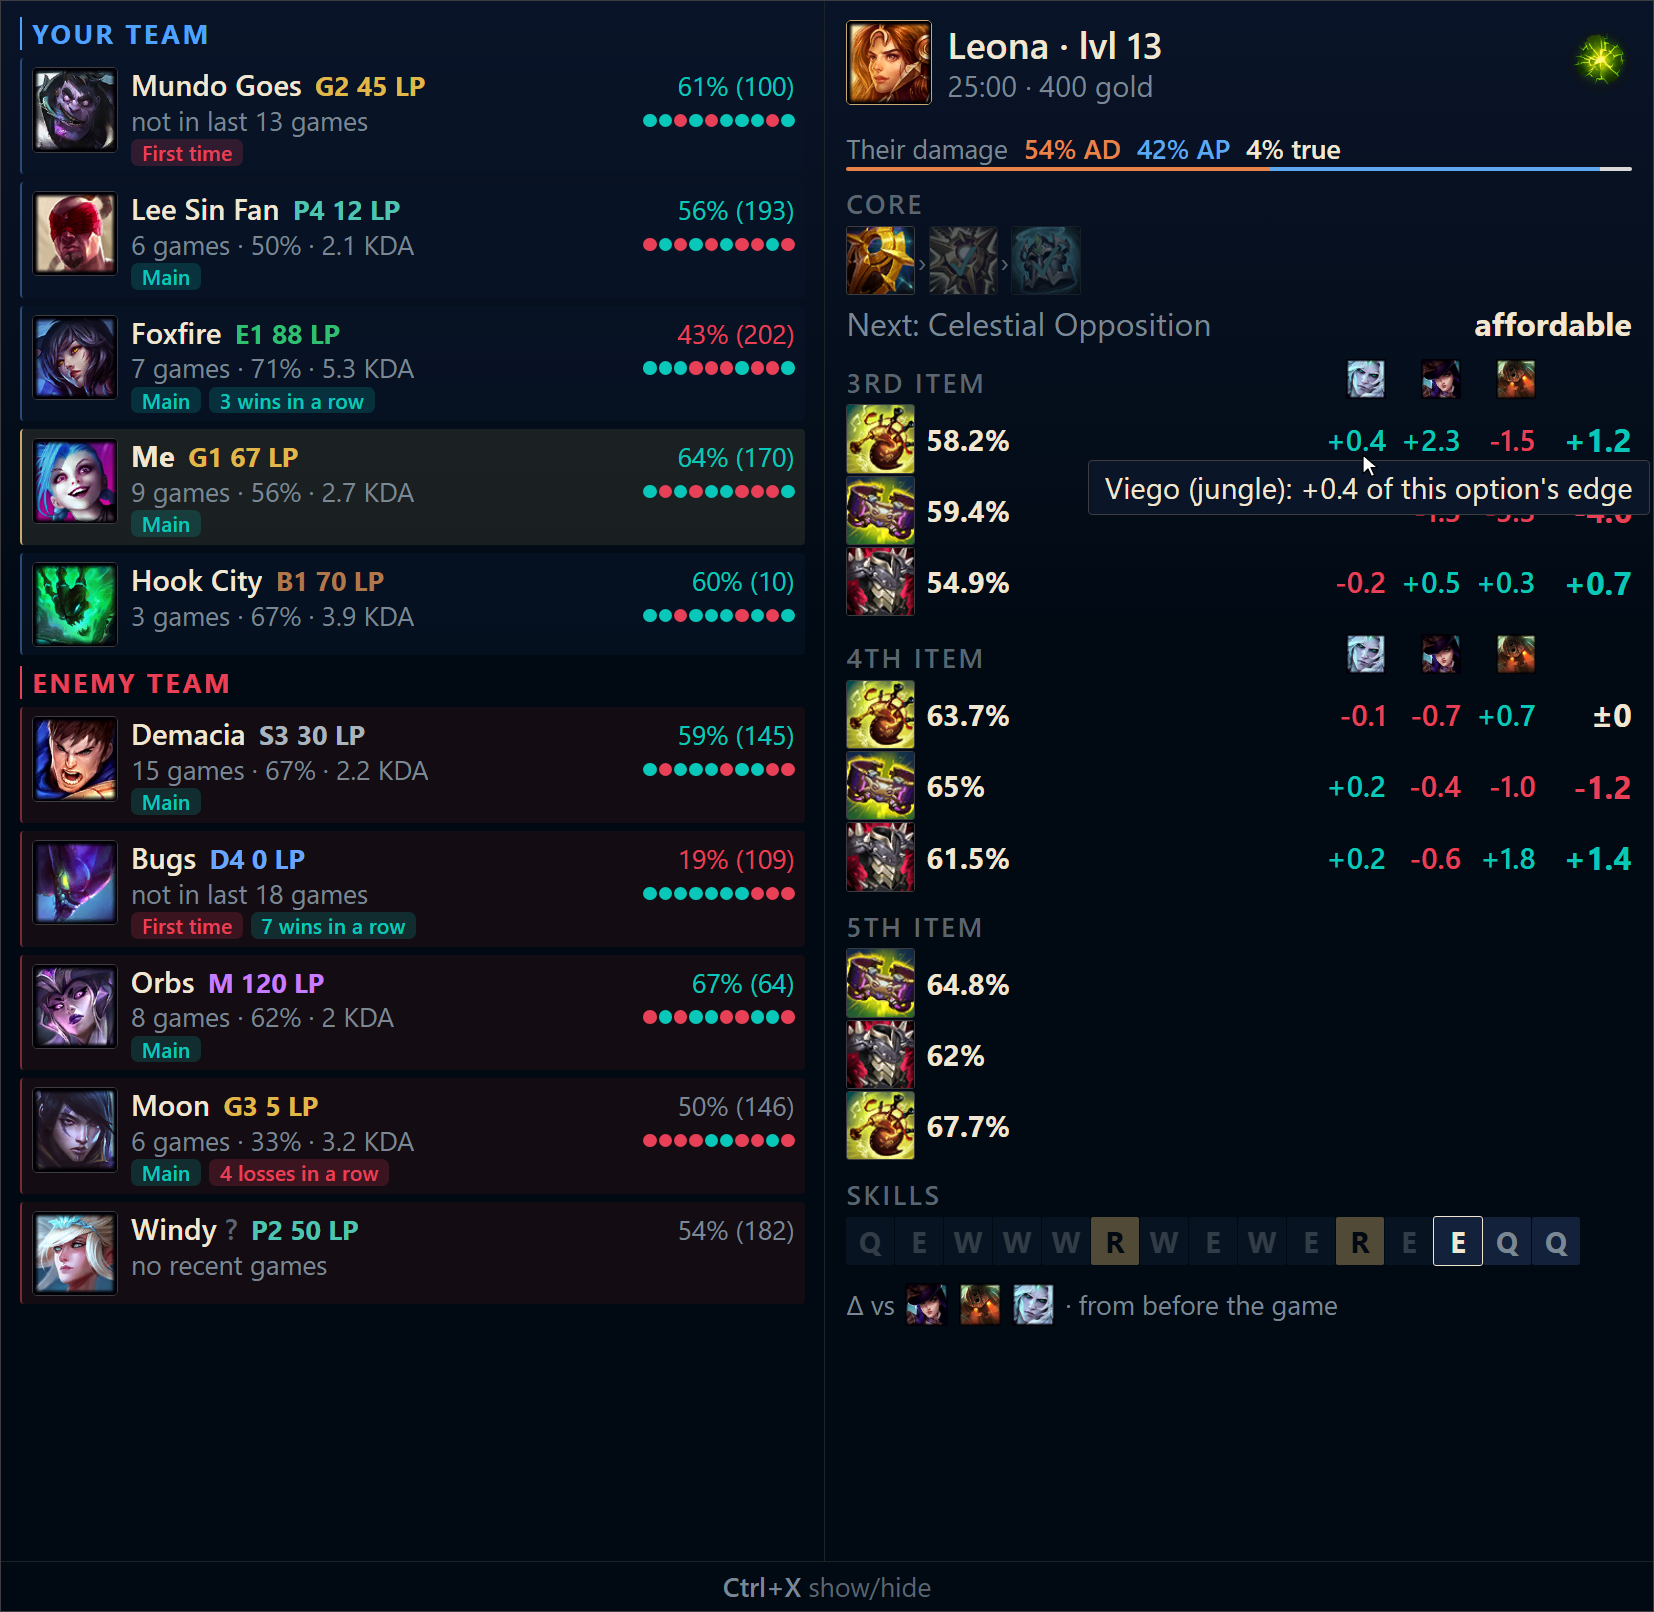
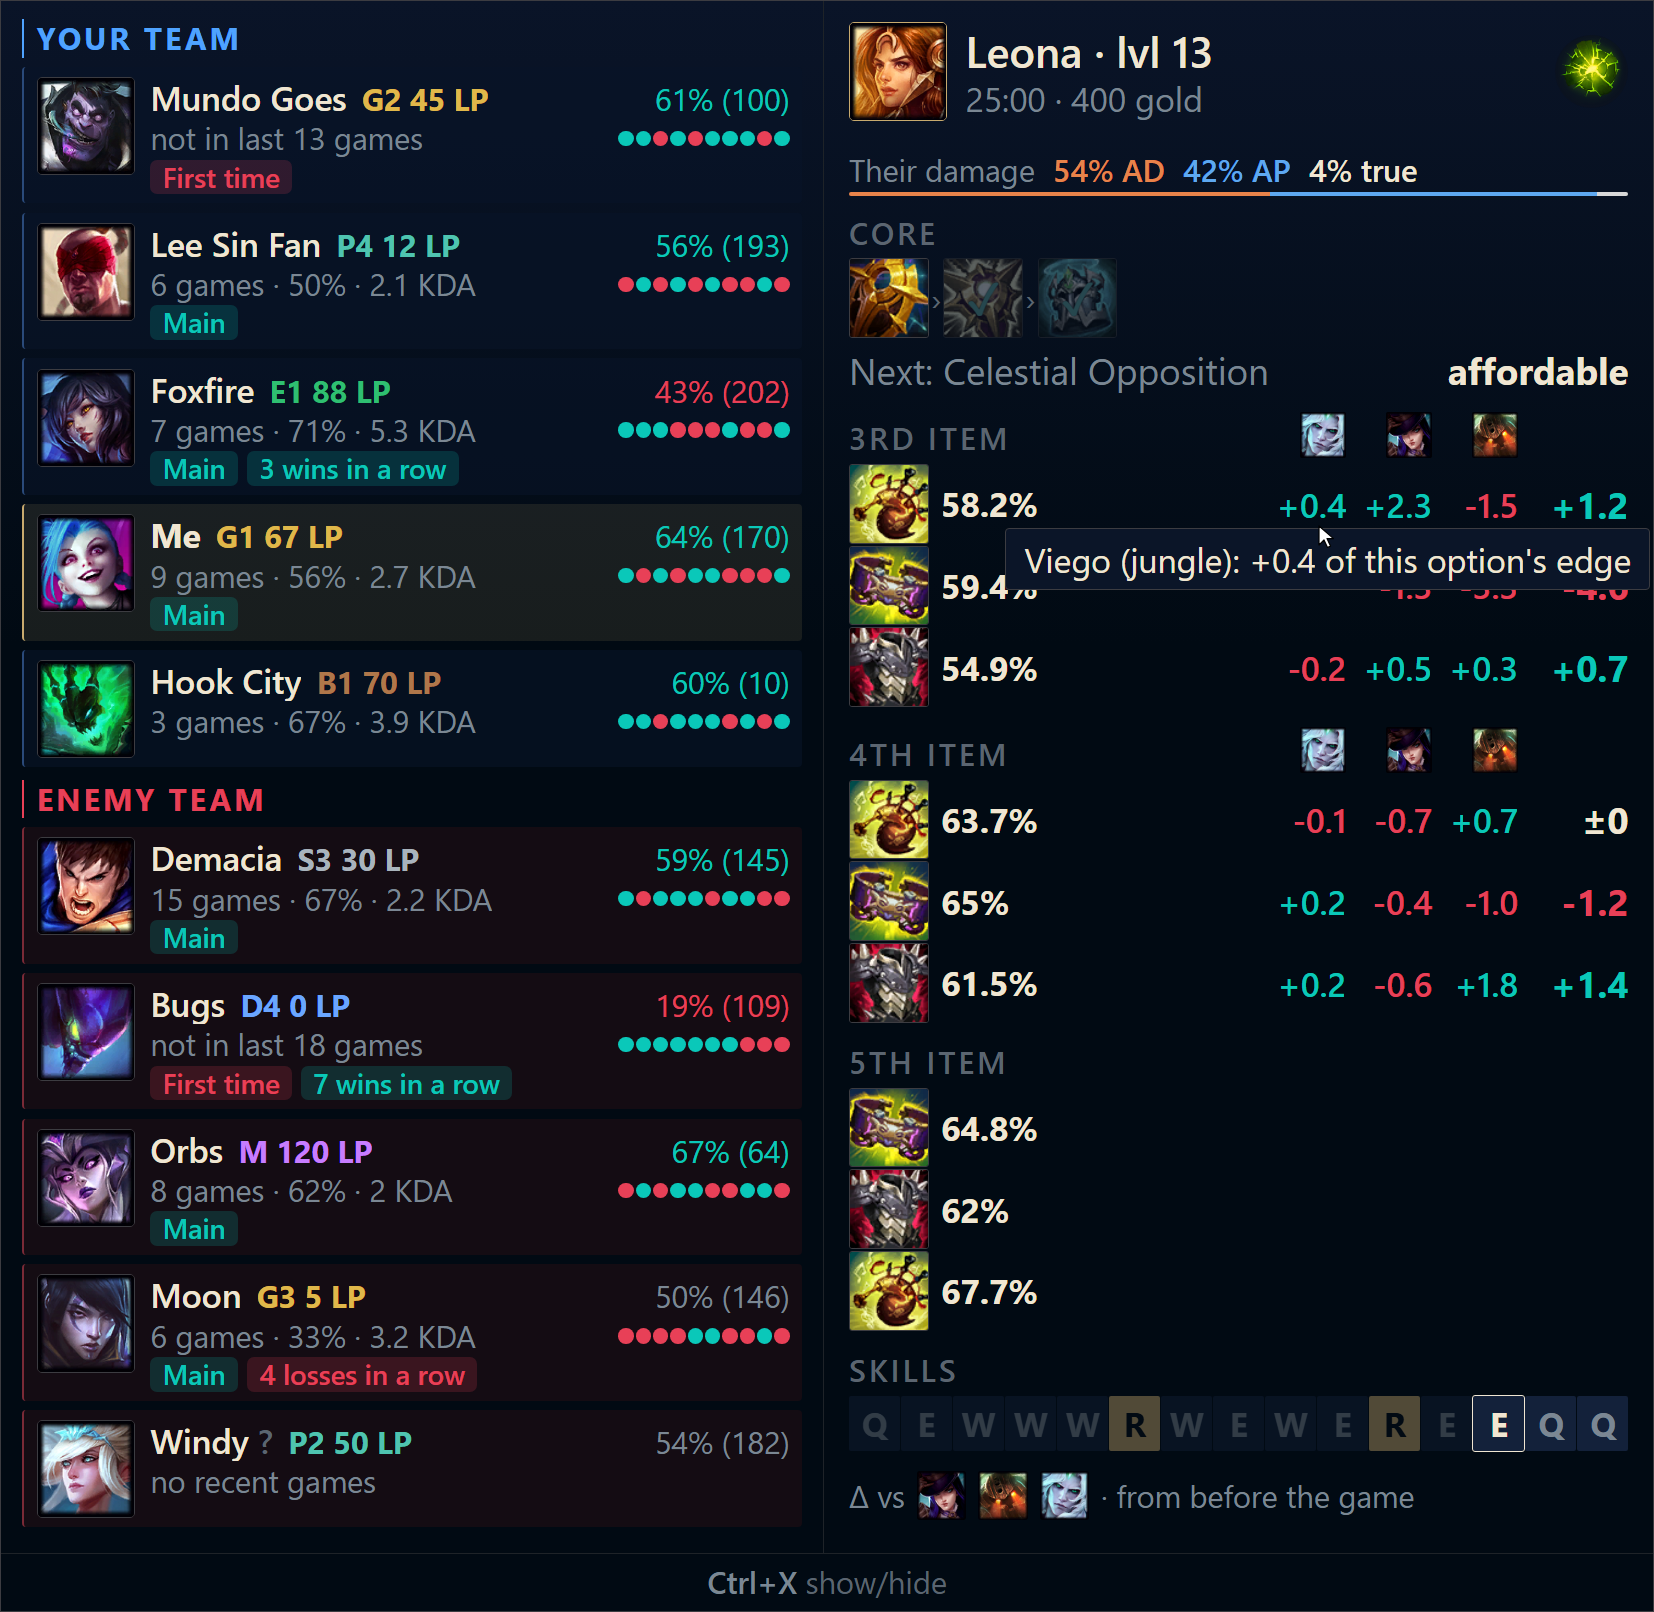
fix ui

diff --git a/panel/game.css b/panel/game.css
@@ -1,4 +1,7 @@
 /* In-game window (game.html): players column left, build column right, each scrolling on its own */
+/* Over the game the page reads from further away than the client panel: everything 15% larger in the
+   same window (both columns have the room), with no text under ~9px at 1080p */
+html{font-size:calc(16px * var(--s) * 1.15)}
 body[data-mode=ingame]{--bgalpha:1;font-size:.8125rem}
 body[data-mode=ingame] .skillord{flex-wrap:nowrap}
 body[data-mode=ingame] .skillord span{flex:0 1 1.125rem;min-width:0;width:auto;height:1.125rem;font-size:.6875rem}
@@ -39,7 +42,7 @@ body[data-mode=ingame] .skillord span{flex:0 1 1.125rem;min-width:0;width:auto;h
 .ig-mu{font-size:.75rem;font-weight:700;flex:none;min-width:2rem;text-align:right}
 .ig-sec.next{outline:1px solid rgba(200,170,110,.55);outline-offset:2px;border-radius:3px;background:rgba(200,170,110,.06)}
 .ig-sec.next .ig-l{color:var(--gold)}
-.ig-tag{position:absolute;left:1px;bottom:0;font-size:.4375rem;line-height:1.2;background:var(--pos);color:#010a13;border-radius:2px;padding:0 .1875rem;font-weight:700;letter-spacing:.04em}
+.ig-tag{position:absolute;left:1px;bottom:0;font-size:.5rem;line-height:1.2;background:var(--pos);color:#010a13;border-radius:2px;padding:0 .1875rem;font-weight:700;letter-spacing:.04em}
 .skillord span.now{outline:1px solid var(--gold2);color:var(--gold2)}
 .skillord span.done{opacity:.4}
 /* players column */
@@ -65,7 +68,7 @@ body[data-mode=ingame] .skillord span{flex:0 1 1.125rem;min-width:0;width:auto;h
 .pl-dots i{width:.3125rem;height:.3125rem;border-radius:50%;background:var(--neg)}
 .pl-dots i.w{background:var(--pos)}
 .pl-tags{display:flex;gap:.1875rem;flex-wrap:wrap;margin-top:1px}
-.pl-tag{font-size:.5rem;line-height:1.25;padding:0 .25rem;border-radius:7px;font-weight:600;white-space:nowrap}
+.pl-tag{font-size:.5625rem;line-height:1.25;padding:0 .25rem;border-radius:7px;font-weight:600;white-space:nowrap}
 .pl-tag.good{background:rgba(10,200,185,.18);color:var(--pos)}
 .pl-tag.bad{background:rgba(232,64,87,.18);color:var(--neg)}
 .pl-row.err .pl-n::after{content:" ?";color:var(--dim)}

diff --git a/desktop/tracker.py b/desktop/tracker.py
@@ -35,7 +35,7 @@ HWND_TOPMOST, HWND_NOTOPMOST = w.HWND(-1), w.HWND(-2)
 SWP_NOSIZE, SWP_NOMOVE, SWP_NOZORDER, SWP_NOACTIVATE = 0x0001, 0x0002, 0x0004, 0x0010
 SW_RESTORE = 9
 GA_ROOTOWNER = 3
-MONITOR_DEFAULTTONULL = 0
+MONITOR_DEFAULTTONULL, MONITOR_DEFAULTTONEAREST = 0, 2
 
 
 @dataclass(frozen=True)
@@ -194,13 +194,20 @@ def place_ingame(game: Rect, size: float = 1.0) -> Placement:
     return Placement("ingame", game.right - width - round(4 * scale), top, width, height, scale)
 
 
-def dpi_scale(hwnd: int) -> float:
-    """The monitor's display scaling for this window (1.0 at 100%). WebView2 applies it on top of
-    our own scale, so the panel divides it back out."""
+def dpi_scale(p: Placement) -> float:
+    """Display scaling (1.0 at 100%) of the monitor a window placed at `p` lands on. WebView2
+    applies it on top of our own scale, so the panel divides it back out. Read from the target
+    monitor, not the window: before its first move the window sits wherever WinForms created it
+    (the monitor under the mouse), which may have a different scaling than the game's."""
+    rc = w.RECT(p.x, p.y, p.x + p.width, p.y + p.height)
+    dpi = w.UINT()
     try:
-        return (user32.GetDpiForWindow(hwnd) or 96) / 96
+        mon = user32.MonitorFromRect(ctypes.byref(rc), MONITOR_DEFAULTTONEAREST)
+        if ctypes.windll.shcore.GetDpiForMonitor(mon, 0, ctypes.byref(dpi), ctypes.byref(w.UINT())) == 0:  # MDT_EFFECTIVE_DPI
+            return (dpi.value or 96) / 96
     except (AttributeError, OSError):
-        return 1.0
+        pass
+    return 1.0
 
 
 def set_no_activate(hwnd: int, on: bool) -> None:

diff --git a/app.py b/app.py
@@ -96,6 +96,7 @@ class Tracked:
     hwnd: int = 0  # pywebview creates the native window lazily
     shown: bool = False
     last: tracker.Placement | None = None
+    view: str = ""  # in-game window: the last setScale/setMode sent to its page
     rect: tracker.Rect | None = None  # panel window: its last position and size in this context
     wide: bool = False  # panel window: showing the out-of-game (explorer) rect
 
@@ -389,9 +390,11 @@ class App:
         """Move, rescale and show or hide one window."""
         visible = bool(placement and focused)
         if visible and (not t.shown or placement != t.last):
-            if not t.last or (placement.mode, placement.scale) != (t.last.mode, t.last.scale):
-                self.js(t.window, f"setScale({placement.scale / tracker.dpi_scale(t.hwnd):.3f});"
-                                  f"setMode({json.dumps(placement.mode)})")
+            view = (f"setScale({placement.scale / tracker.dpi_scale(placement):.3f});"
+                    f"setMode({json.dumps(placement.mode)})")
+            if view != t.view:  # also when the game moves to a monitor with other display scaling
+                self.js(t.window, view)
+                t.view = view
             if not t.shown:
                 log.info("%s shown (%s)", t.title, placement.mode)
                 t.window.show()  # via pywebview so WinForms/WebView2 know they're visible
